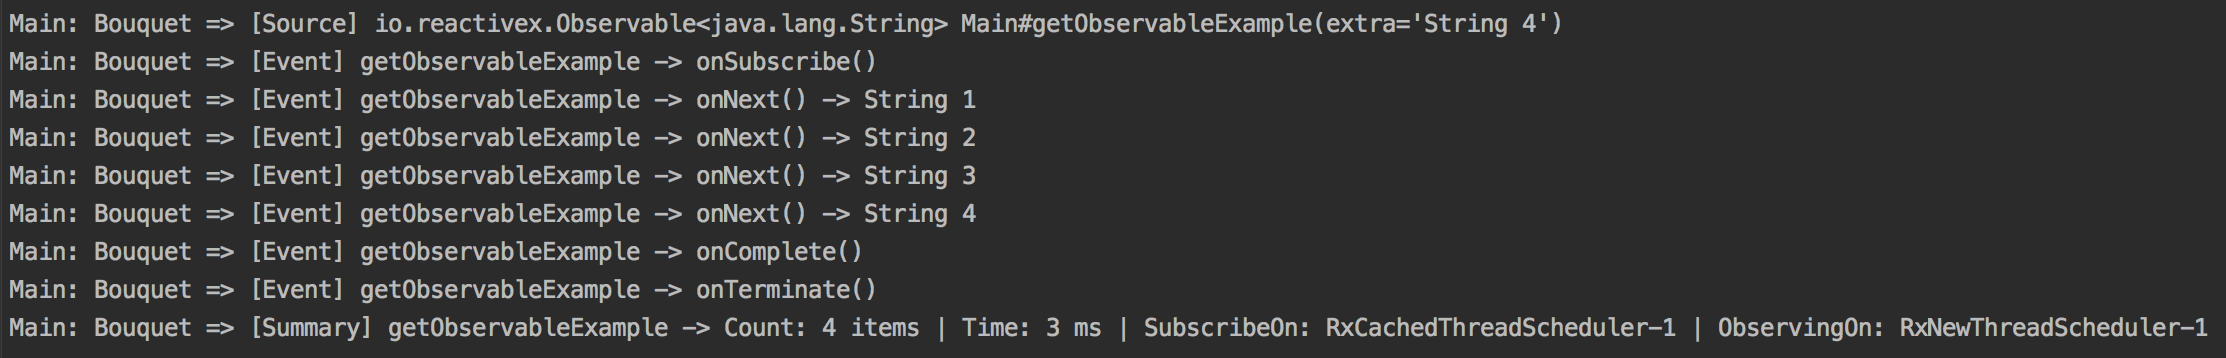
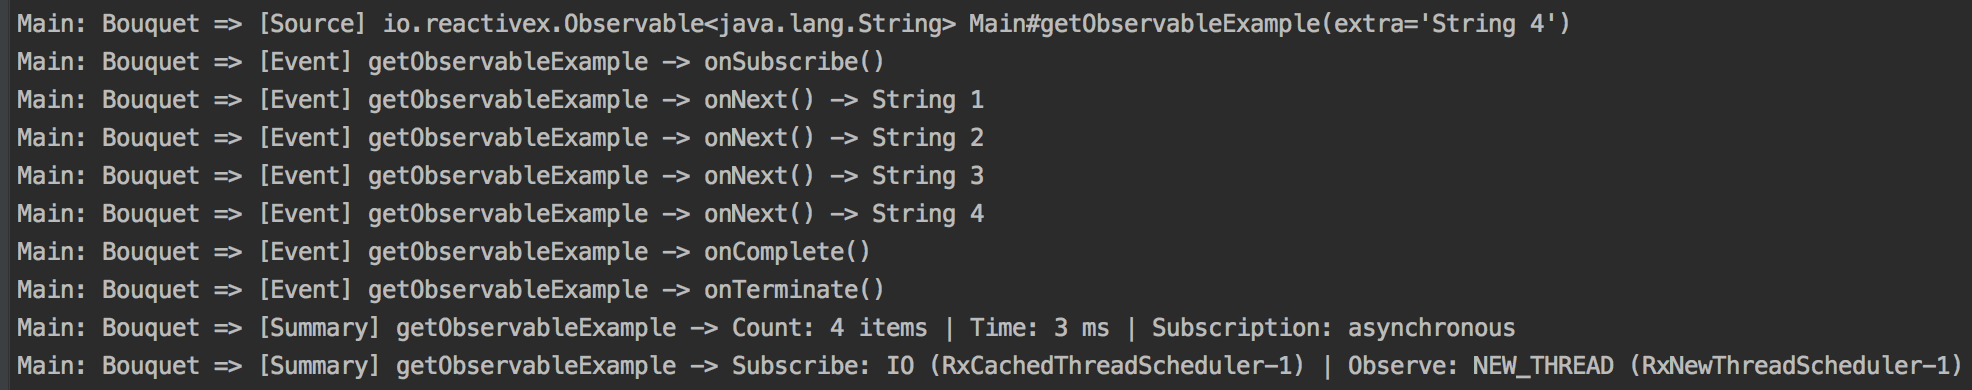
Preparing release

Changed region(s): [[0.0, 0.1229, 1.0, 0.9832], [0.0, 0.0307, 0.8043, 0.0922]]

diff --git a/bouquet-plugin/src/main/java/com/quanturium/bouquet/plugin/BouquetPlugin.java b/bouquet-plugin/src/main/java/com/quanturium/bouquet/plugin/BouquetPlugin.java
@@ -8,7 +8,7 @@ import org.gradle.api.Project;
 
 public class BouquetPlugin implements Plugin<Project> {
 
-	public static final String BOUQUET_VERSION = "1.2.0";
+	public static final String BOUQUET_VERSION = "1.3.0";
 	public static final String ASPECTJ_VERSION = "1.9.1";
 
 	@Override

diff --git a/README.md b/README.md
@@ -14,7 +14,11 @@ Bouquet is a java / android library that helps debugging RxJava2 by logging vari
 The logged info include:
 * Description of the method called
 * Life cycle events from RxJava
-* A summary of the result: count of items, time, subscribing thread and observing thread
+* A summary of the result: 
+    * count of items
+    * benchmark
+    * whether it is synchronous or asynchronous
+    * subscribing/observing scheduler and thread name
 
 ## Setup
 
@@ -25,7 +29,7 @@ buildscript {
   }
 
   dependencies {
-    classpath 'com.quanturium.bouquet:bouquet-plugin:1.2.0'
+    classpath 'com.quanturium.bouquet:bouquet-plugin:1.3.0'
   }
 }
 
@@ -44,7 +48,9 @@ Annotate any method returning an Observable, Flowable, Single, Maybe, Completabl
 ```java
 @RxLogger
 private static Observable<String> getObservableExample(String extra) {
-    return Observable.just("String 1", "String 2", "String 3", extra);
+    return Observable.just("String 1", "String 2", "String 3", extra)
+        .subscribeOn(Schedulers.io())
+        .observeOn(Schedulers.newThread());
 }
 ```
 

diff --git a/CHANGELOG.md b/CHANGELOG.md
@@ -1,6 +1,11 @@
 Change Log
 ==========
 
+Version 1.3.0 *(2018-04-26)*
+----------------------------
+* Adds support for displaying if the Observable is synchronous or asynchronous
+* Adds support for displaying the name of scheduler used in subscribeOn / observeOn in addition to the thread name
+
 Version 1.2.0 *(2018-04-25)*
 ----------------------------
 * Verify support for Kotlin
